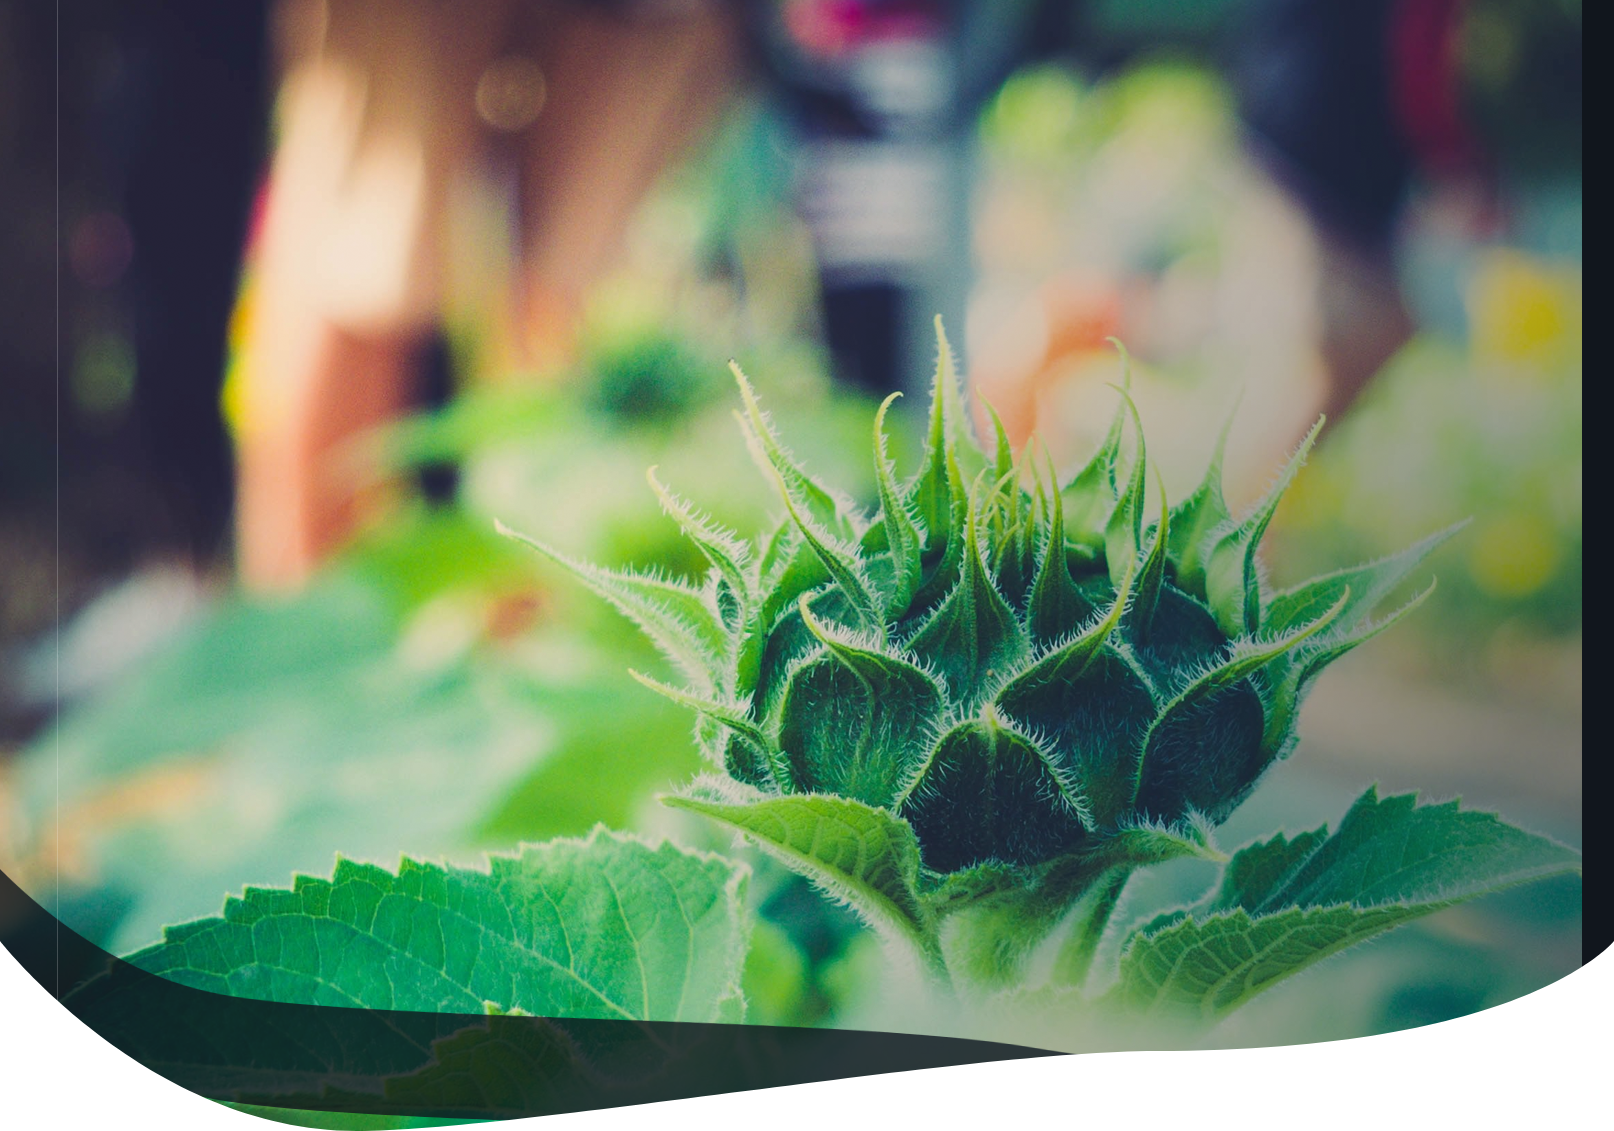
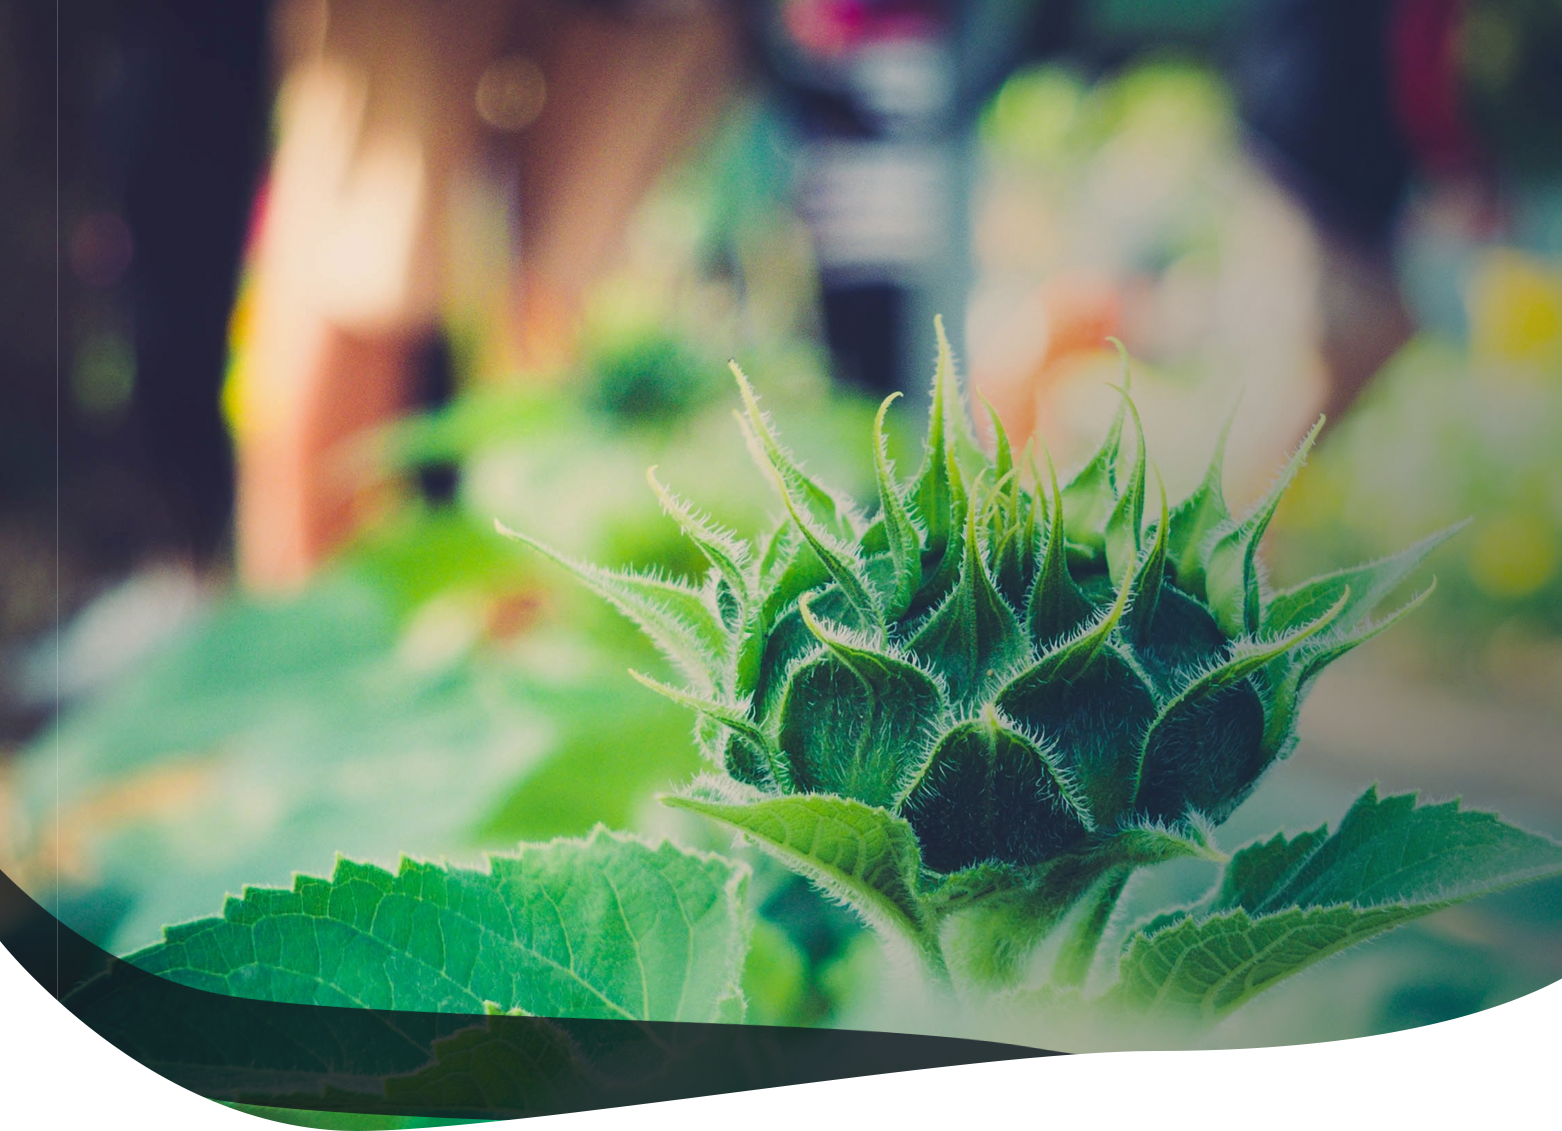
add some beauty, transitions + angle for section border

diff --git a/app/sass/main.sass b/app/sass/main.sass
@@ -14,6 +14,16 @@ body
 	color: #fff
 	line-height: 1.75
 	margin: 0
+	&::before
+		position: absolute
+		content: ""
+		display: block
+		left: 5%
+		height: 100%
+		width: 1px
+		background-color: #fff
+		z-index: 1
+		opacity: 0.2
 h1
 	font-family: 'Roboto Condensed'
 	font-size: 45px
@@ -35,6 +45,9 @@ a
 ul
 	margin: 0
 	padding: 0
+button
+	border: none
+	outline: none
 img
 	width: 100%
 	height: auto
@@ -48,16 +61,9 @@ img
 	background-size: cover
 	background-position: top center
 	background-color: $secondary
-	height: auto //or 100vw?
+	height: auto
 	min-height: 100vw
 	padding-right: 45px
-	&::before
-		position: absolute
-		content: ""
-		display: block
-		left: 66px
-		height: 100%
-		border-left: 1px solid #71777c
 
 .top-nav
 	display: flex
@@ -69,6 +75,9 @@ img
 	height: 48px
 	width: 48px
 	border-radius: 50%
+	transition: .5s ease
+	&:hover
+		border-radius: 0
 .top-nav__search,
 .top-nav__hamburger
 	font-size: 17px
@@ -80,12 +89,23 @@ img
 .main-nav
 	display: flex
 	align-items: center
-	border-bottom: 1px solid #71777c
+	position: relative
+	&::after
+		position: absolute
+		content: ""
+		bottom: 0
+		display: inline-block
+		width: 100%
+		height: 1px
+		background-color: #fff
+		opacity: 0.2
 .main-nav__logo
-	width: 66px
-	height: 66px
+	width: 5vw
+	height: auto
 	line-height: 0
-	z-index: 1
+	img
+		width: 100%
+		height: 100%
 .menu
 	display: flex
 	font-weight: 300
@@ -94,10 +114,25 @@ img
 	margin-right: 30px
 	font-size: 14px
 	text-transform: uppercase
+	cursor: pointer
+	position: relative
+	padding-bottom: 5px
 	&:last-child
 		margin-right: 0
 	&:hover a
 		color: $secondary
+	&::after
+		position: absolute
+		left: 0
+		bottom: 0
+		content: ""
+		height: 5px
+		width: 0%
+		background-color: $secondary
+		display: inline-block
+		transition: width .7s ease
+	&:hover::after
+		width: 100%
 
 .jumbotron
 	position: absolute
@@ -127,9 +162,12 @@ img
 .jumbotron__text
 	width: 70%
 	margin: 1em 0 0 0
+
 .photos
 	background-color: $secondary
-	padding-top: 40px
+	padding-top: 5%
+	padding-bottom: 17%
+	position: relative
 .photos__title
 	margin-top: 0
 	margin-bottom: 20px
@@ -140,10 +178,36 @@ img
 	margin-right: 15px
 	margin-bottom: 30px
 	width: calc((100% - 23px * 2) / 4)
-	// width: 25%
 	font-size: 15px
+	z-index: 2
 	&:nth-child(4n + 4)
 		margin-right: 0
+.photos__image
+	position: relative
+	&.scaled
+		width: calc((100% - 23px * 2) / 4)
+		position: fixed
+		top: 20%
+		left: 0
+		bottom: 0
+		right: 0
+		margin: auto
+.photos__scale
+	position: absolute
+	right: 5px
+	bottom: 12px
+	width: 32px
+	height: 32px
+	background-color: $secondary
+	display: flex
+	cursor: pointer
+	color: #fff
+	> i
+		margin: auto
+		font-size: 13px
+		transition: .3s ease-in-out
+	&.hovered > i
+		font-size: 20px
 .photos__description
 	margin: 0
 
@@ -151,12 +215,26 @@ img
 	padding: 10% 0 20% 0
 	background-repeat: no-repeat
 	background-size: 100% 100%
+	background-color: #f2f2f2
 	font-family: 'Merriweather'
 	position: relative
+	z-index: 1
 	> .wrapper
 		display: flex
 		flex-direction: row
 		justify-content: space-between
+	&::before
+		background: #11161d
+		top: -20%
+		content: ""
+		display: block
+		height: 20% + 1%
+		left: 0
+		position: absolute
+		right: 0
+		transform: skewY(-3deg)
+		transform-origin: 100%
+		z-index: 2
 .blog__header
 	width: 30%
 .blog__path
@@ -164,6 +242,9 @@ img
 	font-size: 14px
 .blog__path-root
 	color: $secondary
+	padding-right: 5px
+	&:hover
+		text-decoration: underline
 .blog__title
 	margin: 10px 0
 .blog__description
@@ -189,9 +270,11 @@ img
 		background-color: $secondary
 
 .articles
+	position: relative
 	background-color: #f2f2f2
 	color: #000
 	padding: 5% 0 8% 0
+	z-index: 1
 .articles__list
 	display: flex
 	flex-flow: row wrap
@@ -222,6 +305,8 @@ img
 	display: flex
 	> i
 		margin: auto
+	&:active
+		box-shadow: inset 0 0 10px rgba(30%, 5%, 8%, .8)
 .jumbotron-container
 	position: relative
 	min-height: 100vw
@@ -229,15 +314,17 @@ img
 	background-repeat: no-repeat
 	background-size: cover
 	background-color: #11161d
+.jumbotron-container_bottom
+	z-index: 1
 .main-footer
+	position: relative
 	background-color: #11161d
 	padding: 10% 0
+	z-index: 1
 	> .wrapper
 		display: flex
 		align-items: center
 		justify-content: space-between
-		// > *
-			// width: calc((100% -20px * 2) / 3)
 .copyright
 	width: 30%
 .social
@@ -277,6 +364,7 @@ img
 	background: transparent
 	border: none
 	cursor: pointer
+	outline: none
 	> i
 		font-size: 20px
 		color: $secondary

diff --git a/app/index.html b/app/index.html
@@ -46,36 +46,47 @@ html(lang="en")
 						Is It Frosting Or Is It Icing
 					ul.photos__list
 						li.photos__item
-							a.photos__image
+							div.photos__image
 								img(src="img/photos-photo_1.jpg")
+								button.photos__scale
+									i.fas.fa-plus
 							p.photos__description.
 								Lorem ipsum dolor sit amet, consectetur adipisicing elit, sed do eiusmod tempor
 						li.photos__item
-							a.photos__image
+							div.photos__image
 								img(src="img/photos-photo_2.jpg")
+								button.photos__scale
+									i.fas.fa-plus
 							p.photos__description.
 								Lorem ipsum dolor sit amet, consectetur adipisicing elit, sed do eiusmod tempor
 						li.photos__item
-							a.photos__image
+							div.photos__image
 								img(src="img/photos-photo_3.jpg")
+								button.photos__scale
+									i.fas.fa-plus
 							p.photos__description.
 								Lorem ipsum dolor sit amet, consectetur adipisicing elit, sed do eiusmod tempor
 						li.photos__item
-							a.photos__image
+							div.photos__image
 								img(src="img/photos-photo_4.jpg")
+								button.photos__scale
+									i.fas.fa-plus
 							p.photos__description.
 								Lorem ipsum dolor sit amet, consectetur adipisicing elit, sed do eiusmod tempor
 						li.photos__item
-							a.photos__image
+							div.photos__image
 								img(src="img/photos-photo_5.jpg")
+								button.photos__scale
+									i.fas.fa-plus
 							p.photos__description.
 								Lorem ipsum dolor sit amet, consectetur adipisicing elit, sed do eiusmod tempor
 			section.blog(style="background-image: url(img/blog_bg.png)")
 				div.wrapper
 					header.blog__header
 						div.blog__path
-							span.blog__path-root Blog 
-							| / Lorem ipsum dolor
+							span
+								a.blog__path-root(href="#") Blog
+							|/ Lorem ipsum dolor
 						h3.blog__title.
 							Booking A Holiday Tour Or Vacation In Egypt
 						p.blog__description.
@@ -151,7 +162,7 @@ html(lang="en")
 									| Garrett Park
 								a.articles__more-link(href="#")
 									i.fas.fa-chevron-right
-			div.jumbotron-container(style="background-image: url(img/footer_bg.png)")
+			div.jumbotron-container.jumbotron-container_bottom(style="background-image: url(img/footer_bg.png)")
 				section.jumbotron
 					span.jumbotron__label b_lls
 					div.jumbotron__content

diff --git a/app/js/common.js b/app/js/common.js
@@ -1,0 +1,15 @@
+animateScaleButton();
+
+function animateScaleButton() {
+	let scaleButton = document.querySelectorAll('.photos__scale');
+
+	scaleButton.forEach( (el) => {
+		el.onmouseenter = () => {
+			el.classList.add('hovered');
+		};
+
+		el.addEventListener('transitionend', () => {
+			el.classList.remove('hovered');
+		});
+	});
+};
